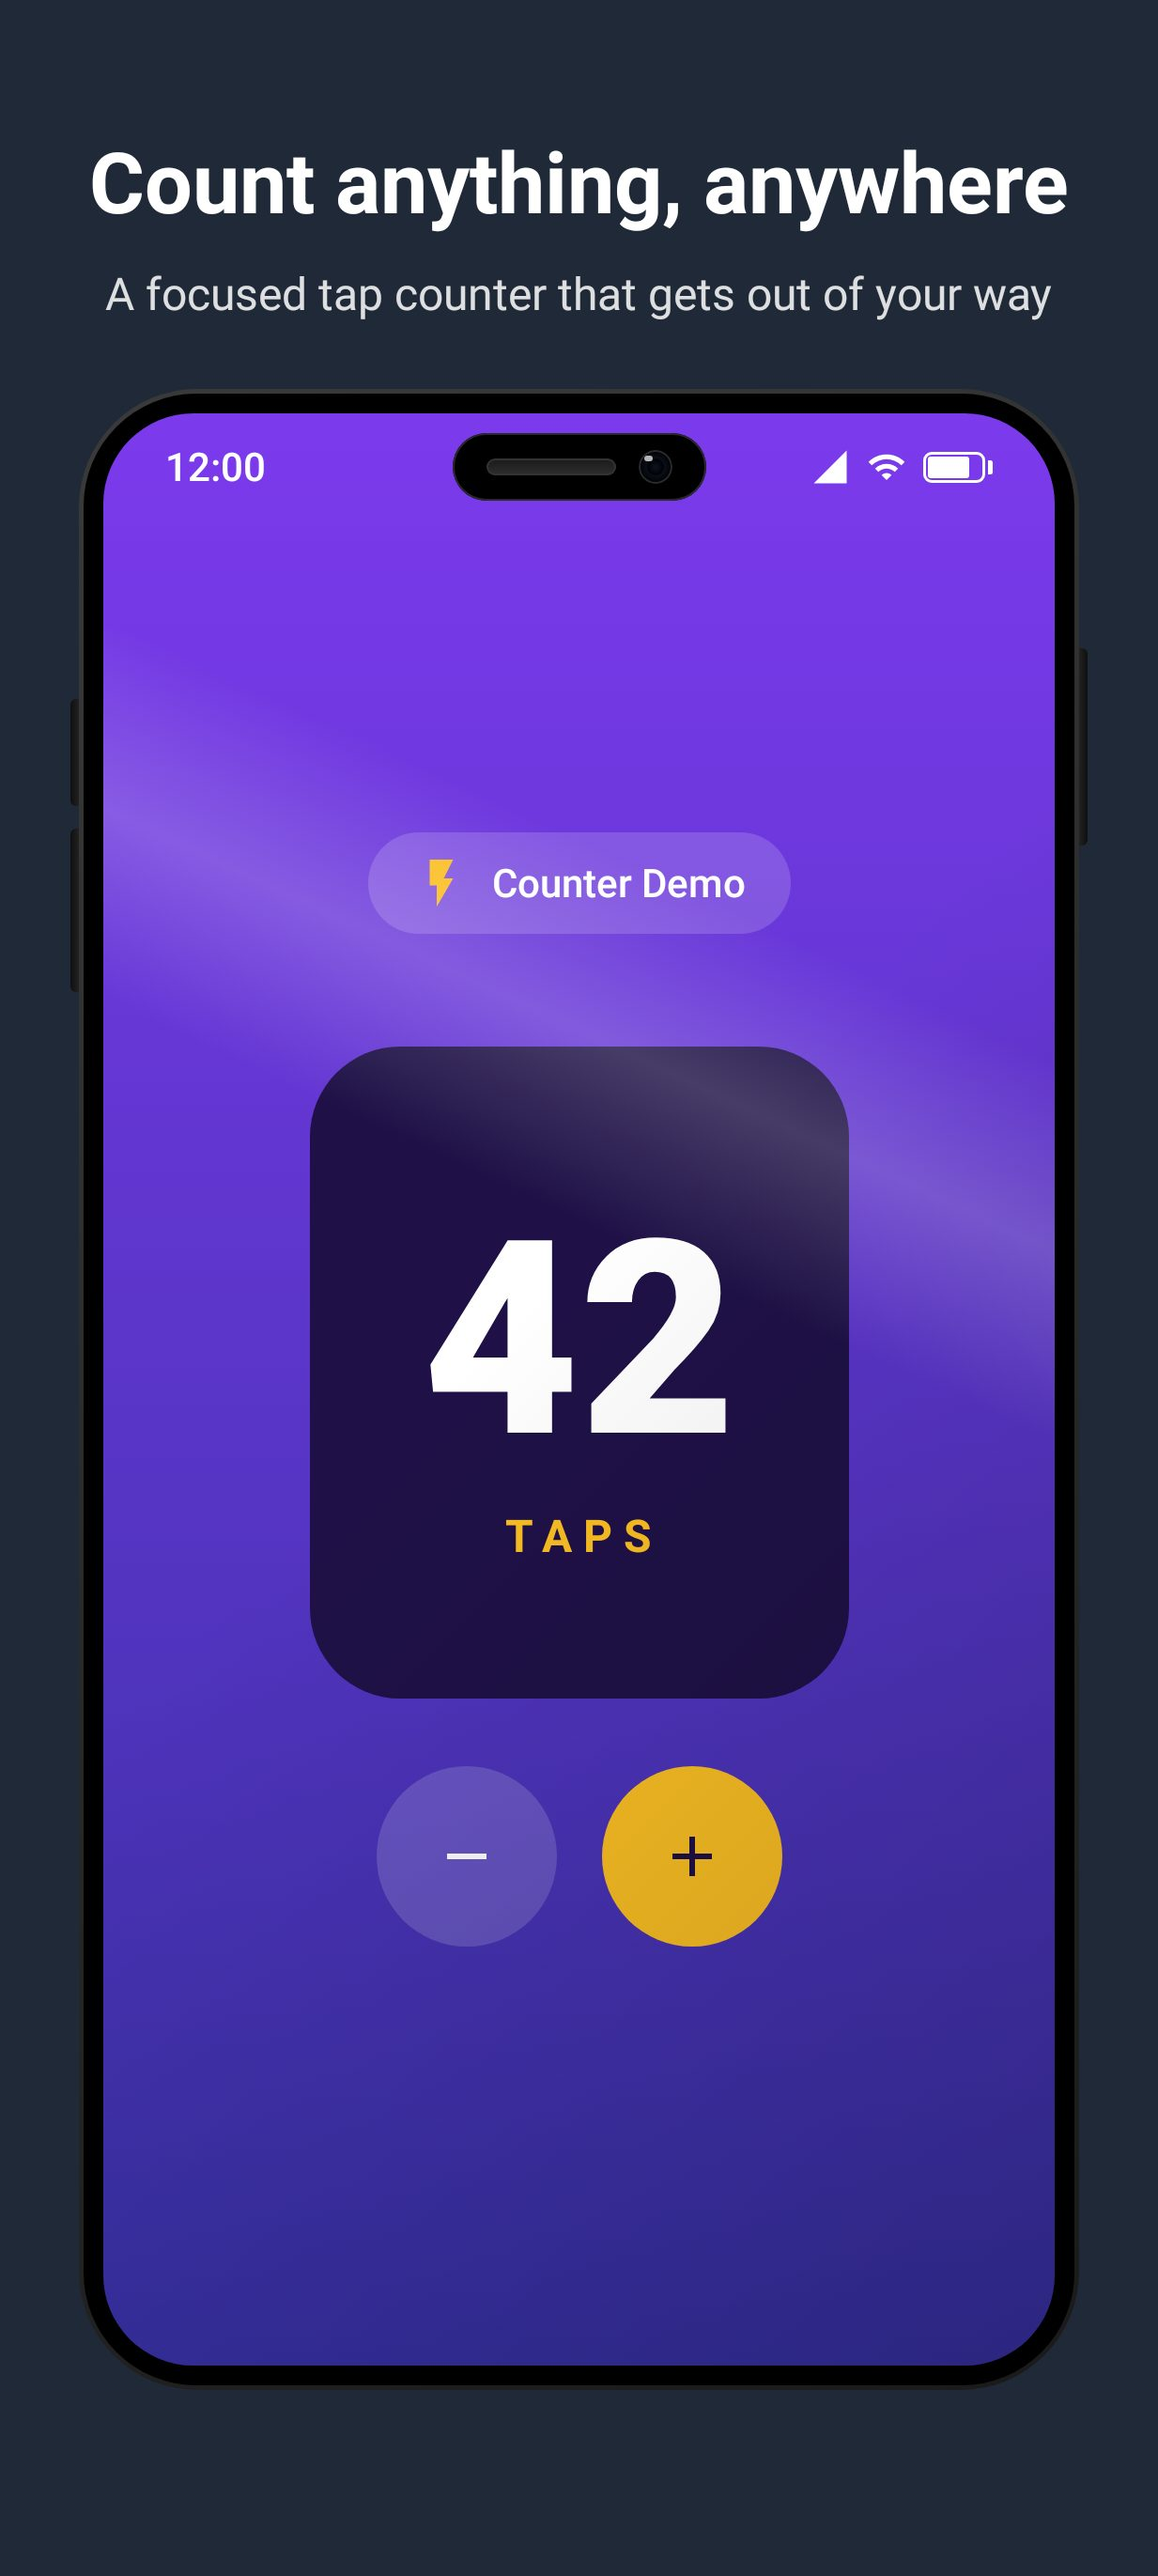
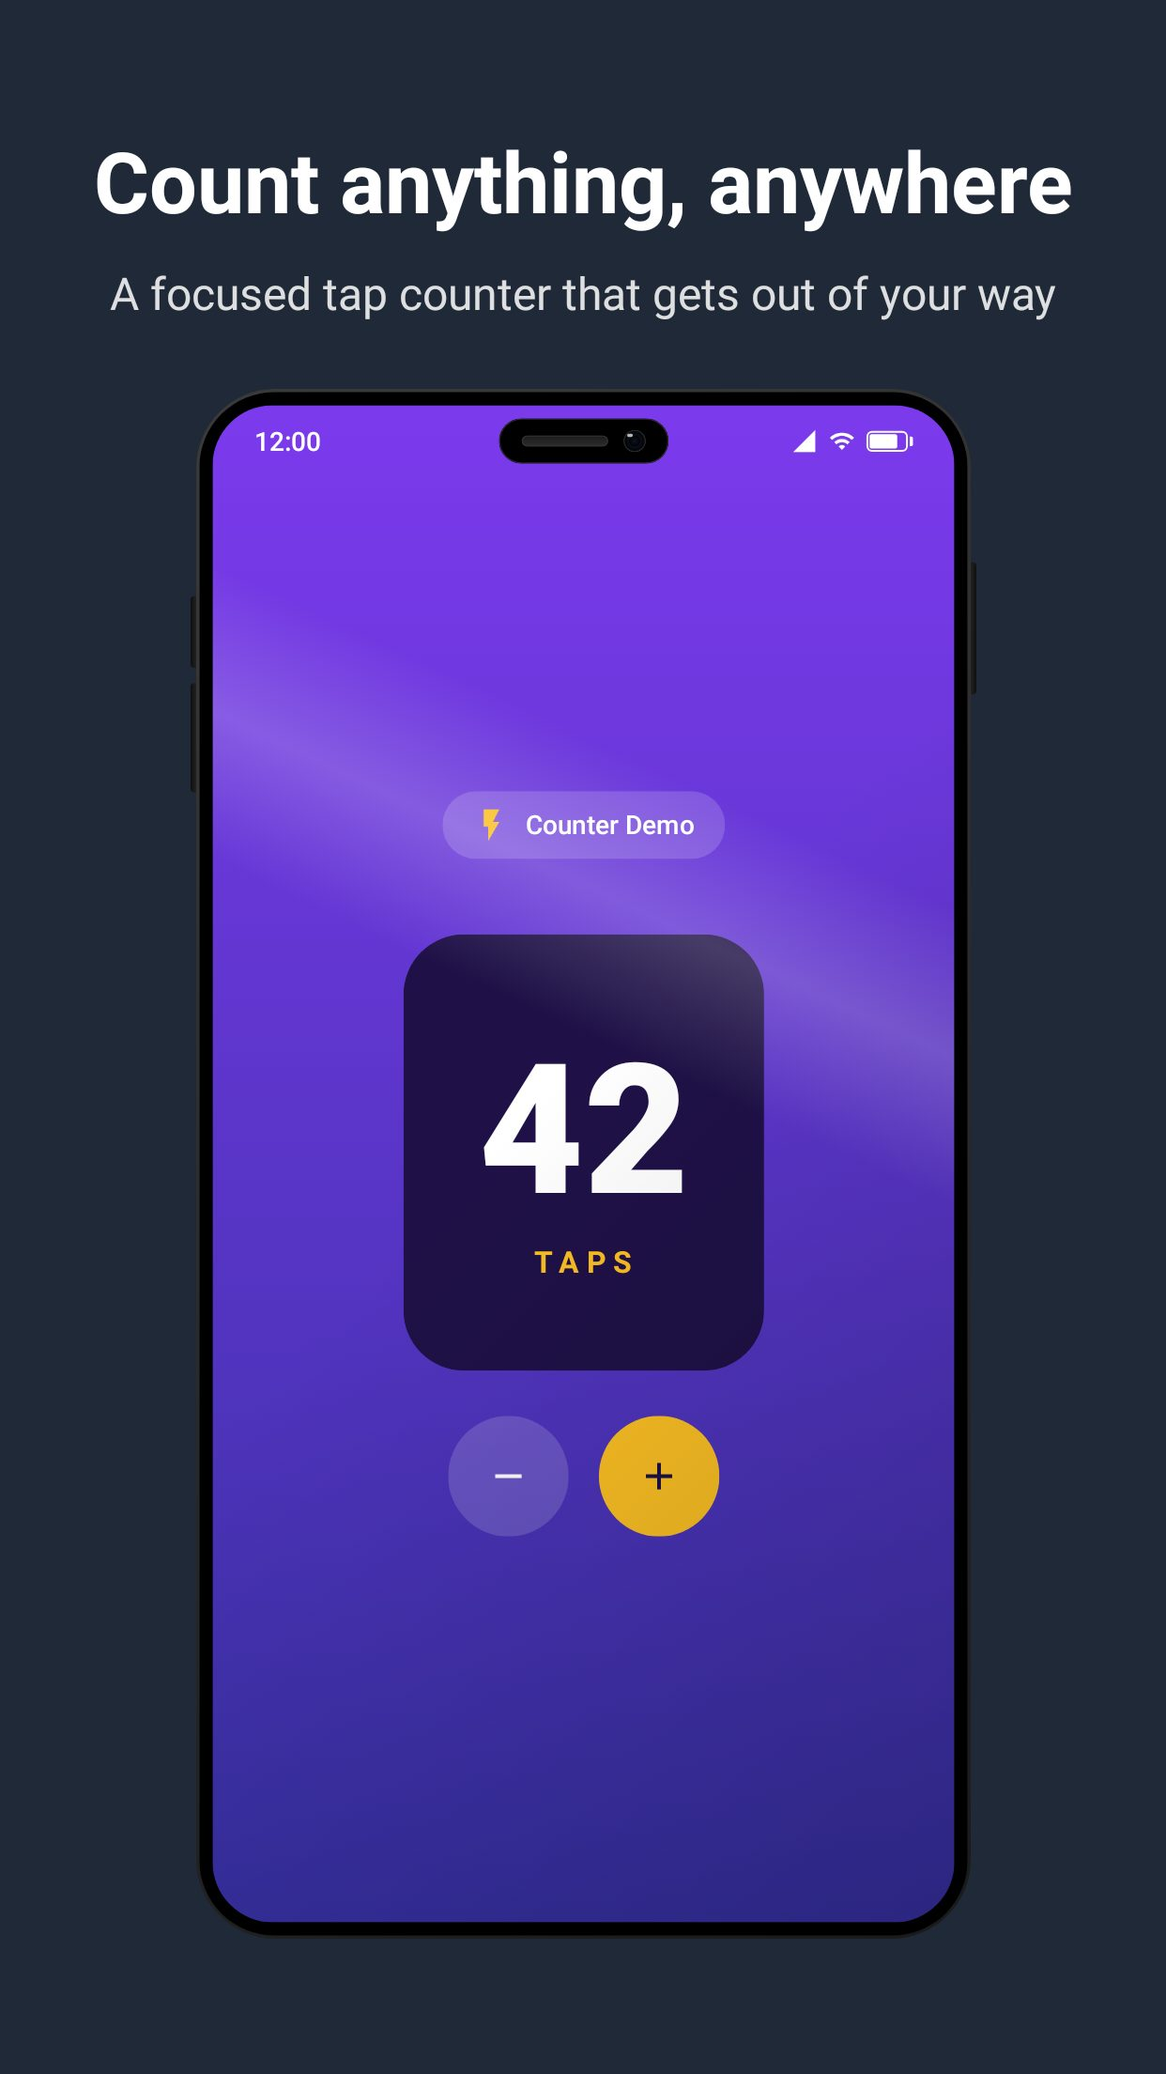
Add frame goldens, and regenerate the example screenshots
The frame rewrite and the MockupPosition.Middle change were both argued to
leave the composition alone, and nothing but looking at the output backed
that up. PhoneFrameGoldenTest runs the whole pipeline — frame, layout,
flatten, write — and holds the PNG against a committed capture, for the
default position and for Middle.

Compared with tolerance rather than pixel-for-pixel. Text antialiasing
shifts by a hair across JDK and OS, and an exact match would fail on a
machine other than the one that recorded the golden while catching nothing
extra: a device that changed size or moved shifts a percentage of the
canvas, not a fringe of edge pixels. Checked that the gate has teeth by
moving the phone frame's vertical padding 16dp — 11% of the canvas differs,
55x the tolerance. Canvas dimensions are asserted exactly.

Recording a golden is deliberate: with no reference on disk the test writes
the current render out and fails, so a golden is never silently adopted on
a run that meant to be checking.

The example screenshots are regenerated, which settles what the Middle
rewrite actually did to the other form factors. Of the four Middle shots,
tablet10 is byte-identical, tablet7 moved 1px and iphone67 24px — in both
cases the device is exactly the same size (968x1304 and 1042x2268) and in
the same horizontal position, so it re-centred rather than shrinking or
cropping. Every non-Middle form factor re-encoded to identical bytes.
[…]

diff --git a/library/src/test/kotlin/dev/lucianosantos/storescreenshots/frames/PhoneFrameGoldenTest.kt b/library/src/test/kotlin/dev/lucianosantos/storescreenshots/frames/PhoneFrameGoldenTest.kt
@@ -1,0 +1,184 @@
+package dev.lucianosantos.storescreenshots.frames
+
+import androidx.compose.foundation.background
+import androidx.compose.foundation.layout.Box
+import androidx.compose.foundation.layout.fillMaxSize
+import androidx.compose.material3.Text
+import androidx.compose.runtime.Composable
+import androidx.compose.ui.Alignment
+import androidx.compose.ui.Modifier
+import androidx.compose.ui.graphics.Color
+import androidx.compose.ui.text.font.FontWeight
+import androidx.compose.ui.unit.sp
+import dev.lucianosantos.storescreenshots.FormFactor
+import dev.lucianosantos.storescreenshots.MockupPosition
+import dev.lucianosantos.storescreenshots.ScreenshotRule
+import dev.lucianosantos.storescreenshots.ScreenshotStyle
+import dev.lucianosantos.storescreenshots.StoreScreenshotsTest
+import org.junit.Assert.assertEquals
+import org.junit.Assert.assertTrue
+import org.junit.Test
+import java.awt.image.BufferedImage
+import java.io.File
+import javax.imageio.ImageIO
+import kotlin.math.abs
+
+/**
+ * Golden images for the phone frame, and for a `Middle`-positioned frame.
+ *
+ * The frame rewrite that moved [PhoneFrame] onto `DeviceMockup`, and the `MockupPosition.Middle`
+ * change that bounded the mockup's height, were both argued to leave the composition alone. That
+ * claim was only ever checked by looking at the output. These are what make it survive the next
+ * refactor: the whole pipeline runs — frame, layout, flatten, write — and the PNG is held against
+ * a committed capture of what it is supposed to look like.
+ *
+ * Unlike [IosStatusBarComparisonTest], which deliberately compares against a real iOS capture
+ * rather than our own output, a golden here *is* our own output. That is the point — it does not
+ * say the layout is right, it says the layout has not moved. Regenerate deliberately (delete the
+ * reference and re-run, then look at the image) whenever a change is meant to alter the frame.
+ *
+ * Compared with tolerance rather than pixel-for-pixel. Both sides come out of the same renderer,
+ * but text antialiasing shifts by a hair across JDK and OS, and an exact match would fail on a
+ * machine other than the one that recorded it while catching nothing extra: a device that changed
+ * size or moved shifts a percentage of the canvas, not a fringe of a few thousand edge pixels.
+ * Canvas dimensions, on the other hand, are asserted exactly — that is the regression this branch
+ * exists to prevent.
+ */
+class PhoneFrameGoldenTest : StoreScreenshotsTest(FormFactor.Phone) {
+
+    /** A pixel counts as different when a channel is off by more than this, out of 255. */
+    private val channelTolerance = 8
+
+    /** At most this fraction of the canvas may differ — 0.2% of 1242x2208 is about 5,500 px. */
+    private val differingPixelTolerance = 0.002f
+
+    /** Mean absolute channel error across the whole canvas. Antialiasing noise sits far below 1. */
+    private val meanErrorTolerance = 1.0f
+
+    @Test
+    fun phoneFrameMatchesItsGolden() {
+        screenshot(
+            fileName = "golden_phone_frame",
+            title = "Count anything",
+            description = "A focused tap counter that gets out of your way",
+        ) { GoldenContent() }
+
+        assertMatchesGolden("golden_phone_frame", "phone_frame.png")
+    }
+
+    /**
+     * `Middle` is the position the layout change actually rewrote — it used to place an unbounded
+     * mockup between two weighted spacers, and now sits in a weighted `Column`. Every form factor
+     * goes through that branch, so it is the one most worth pinning.
+     */
+    @Test
+    fun middlePositionedFrameMatchesItsGolden() {
+        screenshot(
+            fileName = "golden_phone_middle",
+            title = "Mockup centered",
+            description = "Title above, description below",
+            style = ScreenshotStyle(mockupPosition = MockupPosition.Middle),
+        ) { GoldenContent() }
+
+        assertMatchesGolden("golden_phone_middle", "phone_frame_middle.png")
+    }
+
+    /**
+     * Deliberately plain: flat colours and one line of text, so a diff points at the frame and the
+     * layout rather than at whatever the sample app happened to draw.
+     */
+    @Composable
+    private fun GoldenContent() {
+        Box(
+            modifier = Modifier.fillMaxSize().background(Color(0xFF6A1B9A)),
+            contentAlignment = Alignment.Center,
+        ) {
+            Text(text = "42", color = Color.White, fontSize = 96.sp, fontWeight = FontWeight.Bold)
+        }
+    }
+
+    private fun assertMatchesGolden(writtenName: String, referenceName: String) {
+        val rendered = StatusBarReference.opaque(StatusBarReference.read(written(writtenName)))
+        val reference = loadReference(referenceName, rendered)
+
+        assertEquals(
+            "$referenceName is ${reference.width}x${reference.height} but the frame rendered " +
+                "${rendered.width}x${rendered.height} — the canvas size changed",
+            reference.width to reference.height,
+            rendered.width to rendered.height,
+        )
+
+        var differing = 0
+        var totalError = 0L
+        var worst = 0
+        val diff = BufferedImage(rendered.width, rendered.height, BufferedImage.TYPE_INT_RGB)
+        for (y in 0 until rendered.height) {
+            for (x in 0 until rendered.width) {
+                val (ar, ag, ab) = StatusBarReference.rgb(reference, x, y)
+                val (br, bg, bb) = StatusBarReference.rgb(rendered, x, y)
+                val delta = maxOf(abs(ar - br), abs(ag - bg), abs(ab - bb))
+                totalError += (abs(ar - br) + abs(ag - bg) + abs(ab - bb)).toLong()
+                worst = maxOf(worst, delta)
+                if (delta > channelTolerance) {
+                    differing++
+                    diff.setRGB(x, y, 0xFFFF0000.toInt())
+                } else {
+                    diff.setRGB(x, y, rendered.getRGB(x, y))
+                }
+            }
+        }
+
+        val pixels = rendered.width * rendered.height
+        val differingFraction = differing.toFloat() / pixels
+        val meanError = totalError.toFloat() / (pixels * 3)
+
+        val dir = File("build/reports/frame-goldens").apply { mkdirs() }
+        ImageIO.write(rendered, "png", File(dir, "$writtenName-rendered.png"))
+        ImageIO.write(reference, "png", File(dir, "$writtenName-reference.png"))
+        ImageIO.write(diff, "png", File(dir, "$writtenName-diff.png"))
+
+        val report = buildString {
+            append("$referenceName vs the frame as rendered now\n")
+            append("  differing pixels   %,d of %,d (%.4f%%, max %.4f%%)\n"
+                .format(differing, pixels, differingFraction * 100, differingPixelTolerance * 100))
+            append("  mean channel error %.4f (max %.4f)\n".format(meanError, meanErrorTolerance))
+            append("  worst pixel delta  %d of 255\n".format(worst))
+            append("  images written to  $dir\n")
+        }
+        println(report)
+
+        val failures = buildList {
+            if (differingFraction > differingPixelTolerance) {
+                add("%.4f%% of the canvas differs, past the %.4f%% allowed — look at $writtenName-diff.png"
+                    .format(differingFraction * 100, differingPixelTolerance * 100))
+            }
+            if (meanError > meanErrorTolerance) {
+                add("mean channel error %.4f is past the %.4f allowed".format(meanError, meanErrorTolerance))
+            }
+        }
+        assertTrue("\n$report\n" + failures.joinToString("\n"), failures.isEmpty())
+    }
+
+    private fun written(name: String): File {
+        val root = ScreenshotRule.defaultOutputRoot()
+        return root.walkTopDown().firstOrNull { it.name == "$name.png" }
+            ?: error("no $name.png written under $root")
+    }
+
+    /**
+     * Loads the committed golden, or writes the current render out as one and fails, so recording a
+     * new golden is a matter of deleting the file and running the test — never something that
+     * happens silently on a run that was meant to be checking.
+     */
+    private fun loadReference(name: String, rendered: BufferedImage): BufferedImage {
+        val stream = javaClass.getResourceAsStream("/reference/$name")
+        if (stream != null) return stream.use { StatusBarReference.opaque(ImageIO.read(it)) }
+
+        val recorded = File("src/test/resources/reference/$name").apply { parentFile.mkdirs() }
+        ImageIO.write(rendered, "png", recorded)
+        error(
+            "No golden at /reference/$name, so the current render was written to $recorded. " +
+                "Look at it, and commit it if it is what the frame should look like."
+        )
+    }
+}
